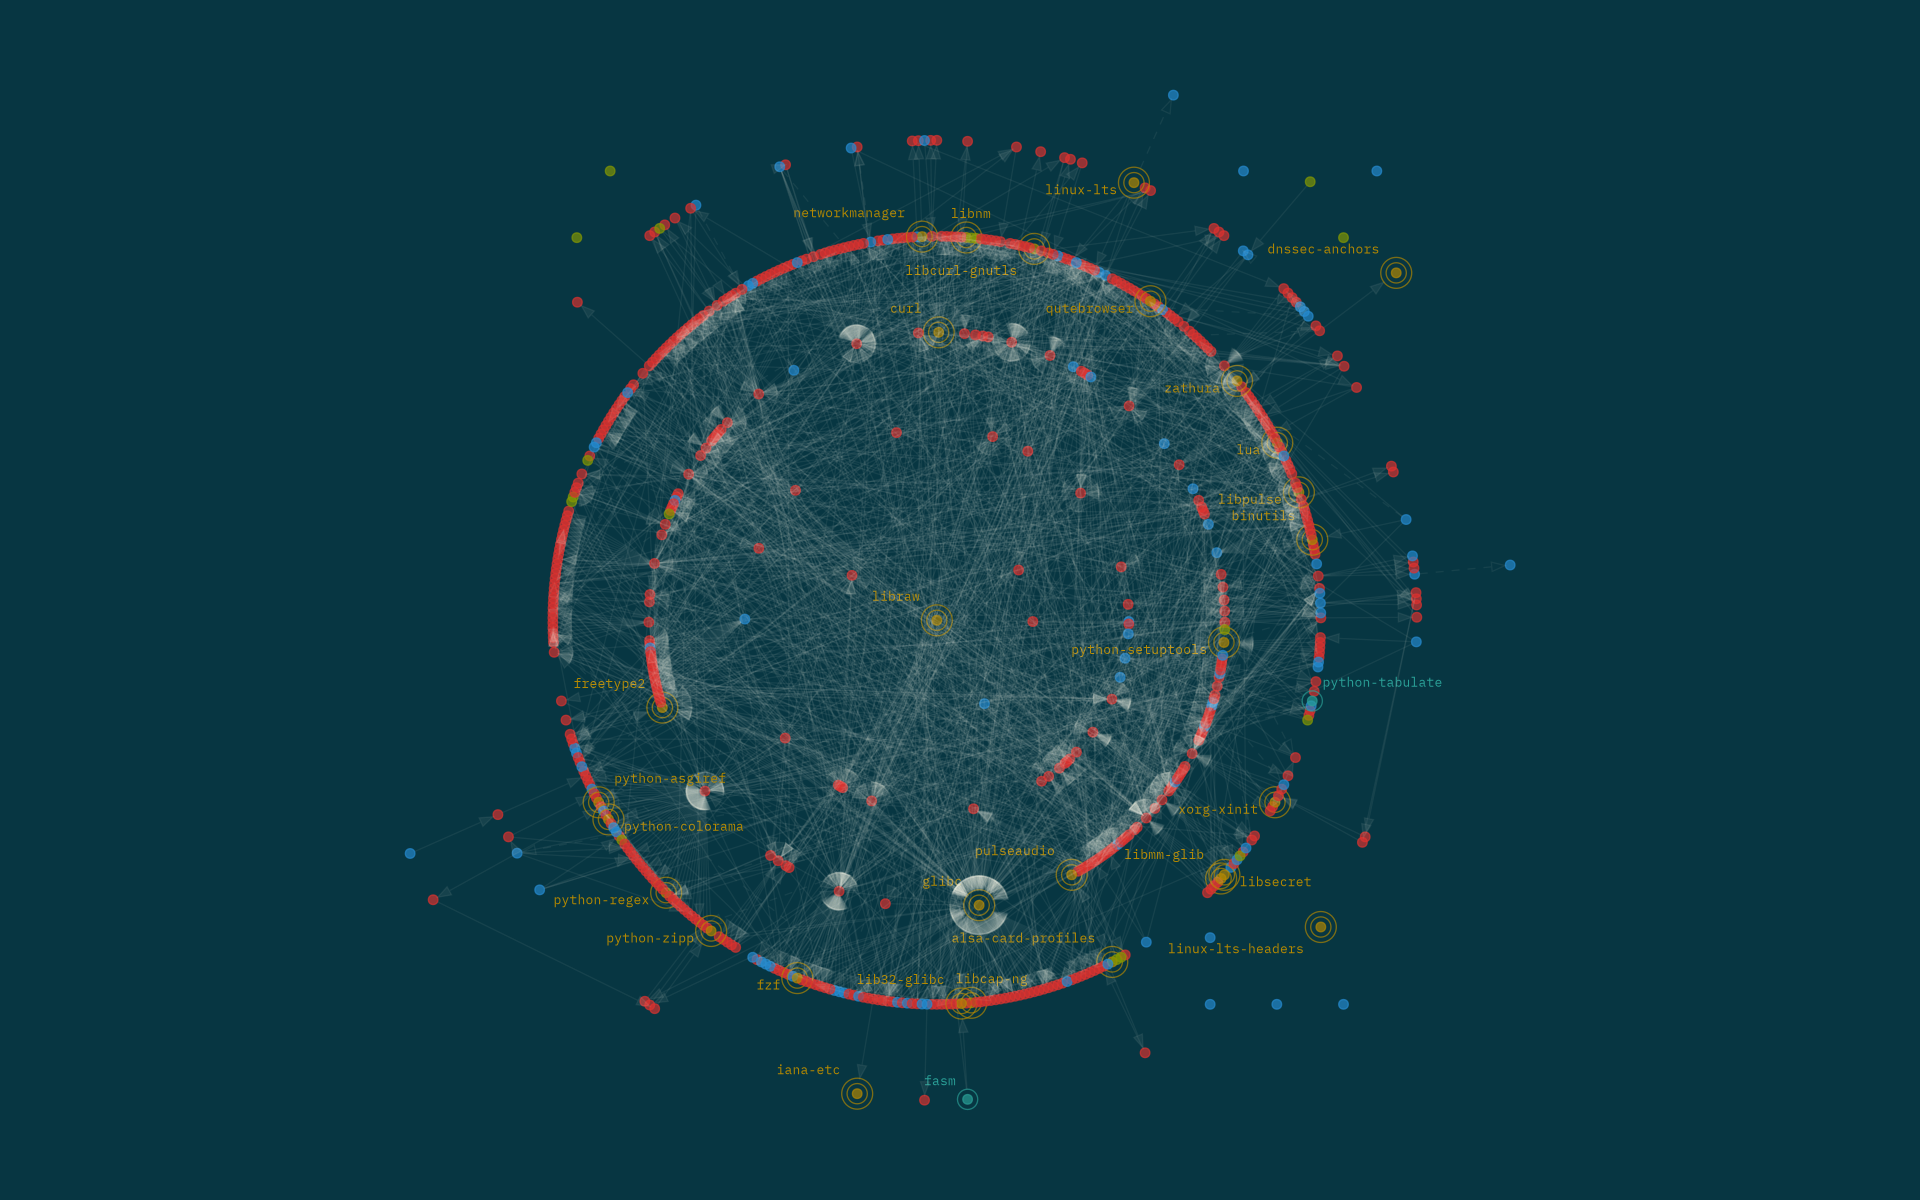
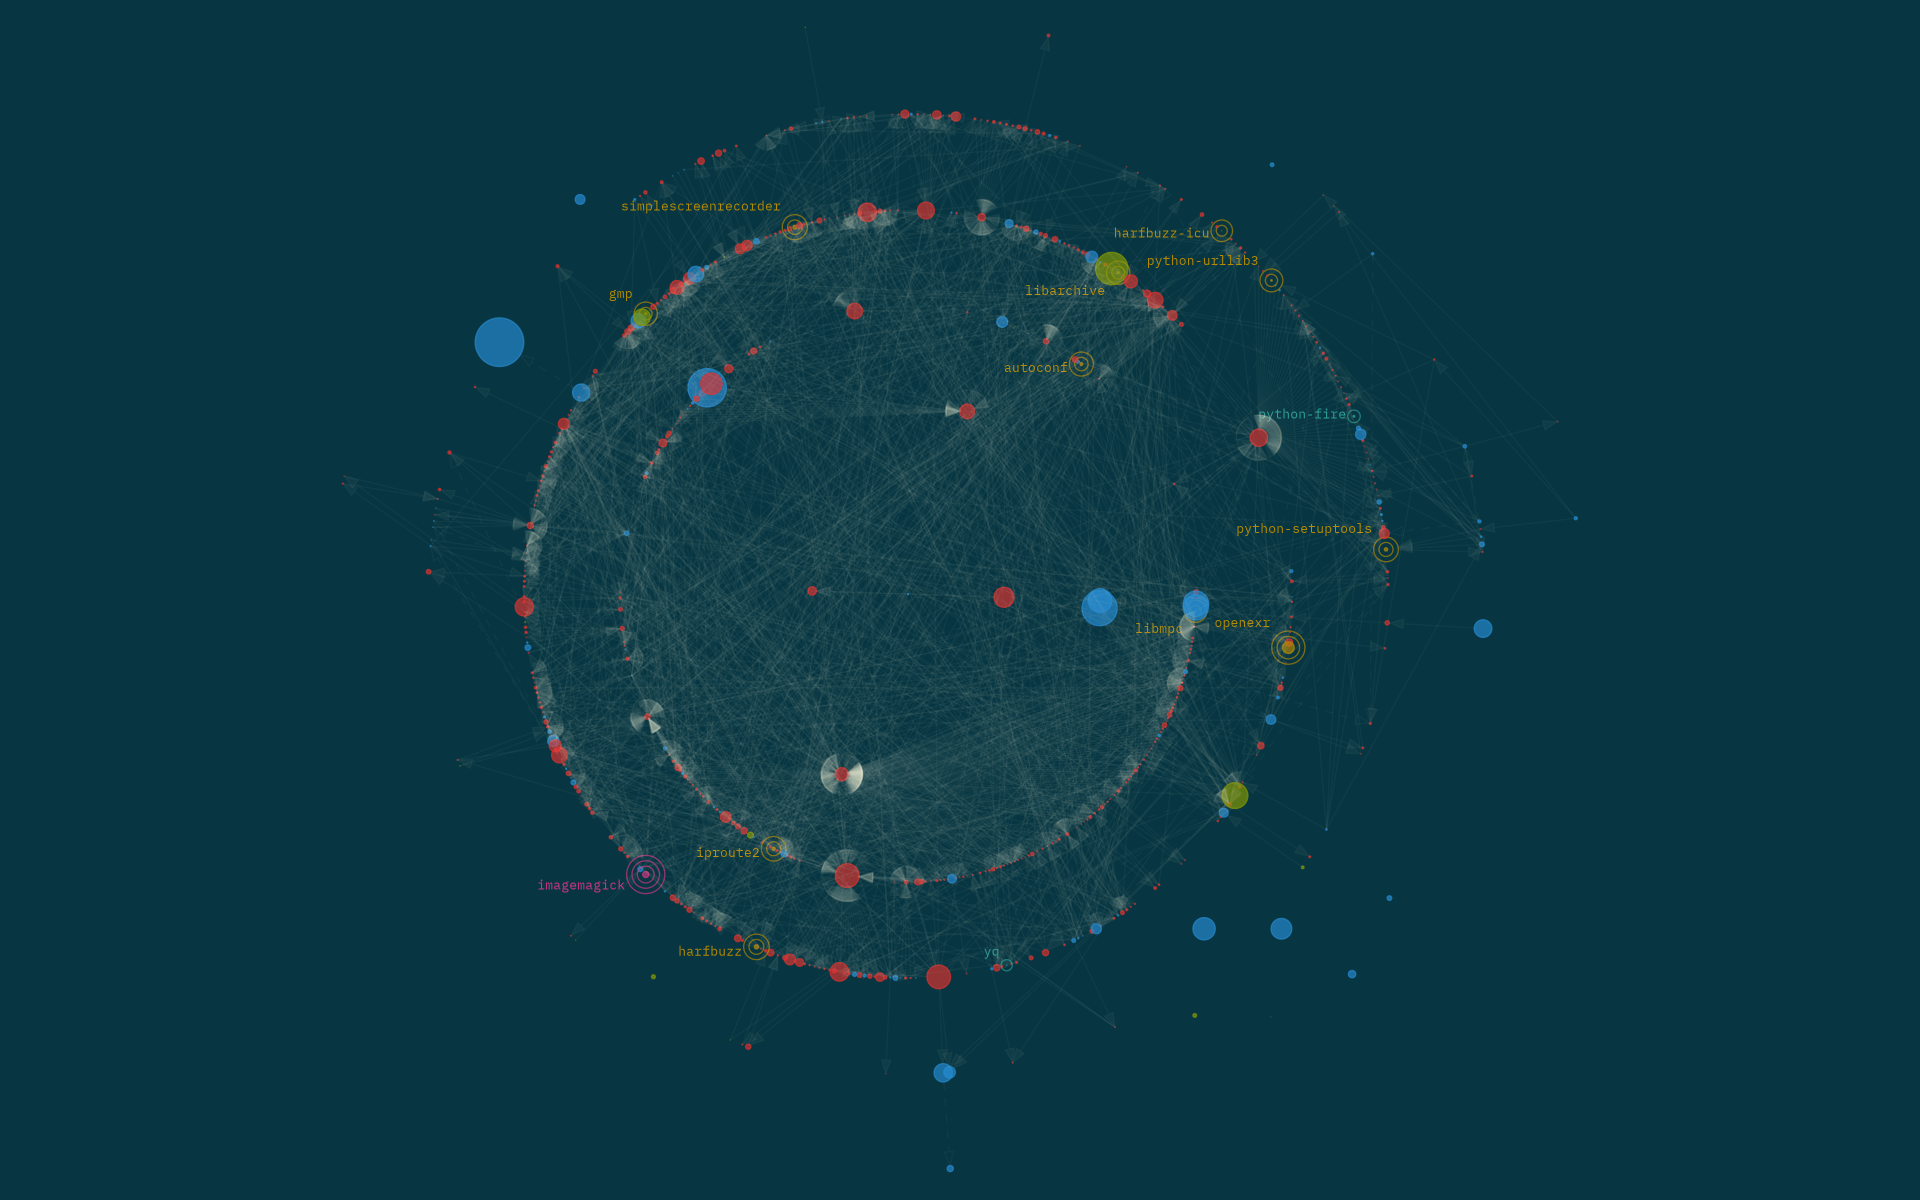
Implement installed size representation.

diff --git a/src/opts.c b/src/opts.c
@@ -82,6 +82,12 @@ struct opts parse_opts(int argc, char **argv) {
                 .optional = "arrowhead=empty, style=dashed",
             }
         },
+        .features = {
+            .installed_size = {
+                .enabled = 1,
+                .delta = 2e-5
+            }
+        },
         ._skip_fetch = 0,
         ._skip_generate = 0,
         ._skip_hook = 0
@@ -153,6 +159,12 @@ struct opts parse_opts(int argc, char **argv) {
         opts.attributes.package.repository.entries[4].attributes =
             "color=\"#859900aa\"";
     }
+
+    /* Parsing the features group */
+    config_lookup_bool(&cfg, "features.installed-size.enabled",
+                       &opts.features.installed_size.enabled);
+    config_lookup_float(&cfg, "features.installed-size.delta",
+                        &opts.features.installed_size.delta);
 
     config_destroy(&cfg);
 

diff --git a/src/generate.c b/src/generate.c
@@ -1,6 +1,7 @@
 #include "generate.h"
 #include "util.h"
 #include <alpm.h>
+#include <math.h>
 #include <unistd.h>
 
 static void write_updates(FILE *file, const struct opts *opts) {
@@ -125,6 +126,13 @@ void generate_graph(pid_t fetch_pid, const struct opts *opts) {
              _optionalfor = _optionalfor->next) {
             fprintf(file, "\"%s\" -> \"%s\" [%s];\n", (char *)_optionalfor->data, name,
                     opts->attributes.dependency.optional);
+        }
+
+        /* Installed size representation */
+        if (opts->features.installed_size.enabled) {
+            double size =
+                sqrt(alpm_pkg_get_isize(pkg)) * opts->features.installed_size.delta;
+            fprintf(file, "\"%s\" [width=%lf, height=%lf];\n", name, size, size);
         }
 
         FREELIST(requiredby);

diff --git a/src/opts.h b/src/opts.h
@@ -32,6 +32,12 @@ struct opts {
             const char *optional;
         } dependency;
     } attributes;
+    struct {
+        struct {
+            int enabled;
+            double delta;
+        } installed_size;
+    } features;
     int _skip_fetch;
     int _skip_generate;
     int _skip_hook;

diff --git a/README.rst b/README.rst
@@ -64,11 +64,13 @@ Usage
 
 Run ``pacwall``.
 
-The blue dots are manually (explicitly) installed packages, the red ones are
-automatically (implicitly) installed packages. The green dots are packages not found
-in the official non-testing repositories (e.g. from the AUR). The outlined teal dots
-are orphans, the outlined yellow dots are outdated packages. The outlined magenta
-dots are packages with unresolved `.pacnew files`_ (it's time to run ``pacdiff``).
+The circles represent packages, where the area of a circle is proportional to the
+size of the package.
+The blue circles are manually (explicitly) installed packages, the red ones are
+automatically (implicitly) installed packages. The green circles are packages not found
+in the official non-testing repositories (e.g. from the AUR). The outlined teal circles
+are orphans, the outlined yellow circles are outdated packages. The outlined magenta
+circles are packages with unresolved `.pacnew files`_ (it's time to run ``pacdiff``).
 The dashed edges represent optional dependencies, the normal edges represent strict
 (hard, direct) dependencies. The appearance is customizable, see Customization_.
 
@@ -252,6 +254,26 @@ List of settings
     * ``optional`` (default: ``arrowhead=empty, style=dashed``)
 
       The attributes that are applied to optional dependencies (separated by commas).
+
+* ``features`` (group)
+
+  The group that contains settings that control optional features.
+
+  * ``installed-size`` (group) (default::
+
+        enabled: true
+        delta: 2e-5
+    )
+
+    The group that contains settings that control the installed size representation
+    feature. If ``enabled`` is true, the ``height`` and ``width`` attributes of nodes
+    are overwritten so that the area covered by a node is proportional to the size of
+    the installed package. The formula is::
+
+        width in inches = height in inches = (installed size in bytes)^(1/2) * delta
+
+    Note that the values of these settings are not strings and omit the quotes enclosing
+    them.
 
 ---------------
 Tips and tricks
